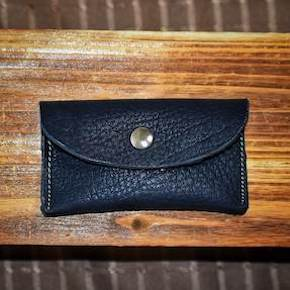
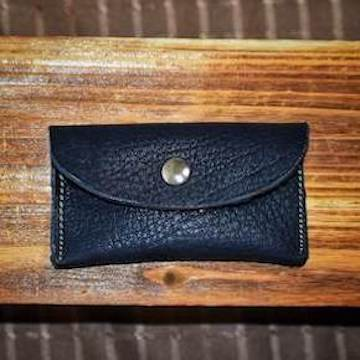
サイドのバー削除、写真のサイズ調整、フッターボタン追加など

diff --git a/ezo-work/css/product.css b/ezo-work/css/product.css
@@ -390,7 +390,7 @@ TOP
 
 * .grid {
   display: grid;
-  grid-template-columns: repeat(auto-fit, minmax(280px, 1fr));
+  grid-template-columns: repeat(auto-fit, minmax(360px, 1fr));
   row-gap: 0px;
   column-gap: 0px;
 }
@@ -454,6 +454,8 @@ TOP
   width: 20%;
   margin: 50px auto;
   color: #fff;
+  background-color: #61645C;
+  font-size: 12px;
 }
 
 * .foot-wrap ul {
@@ -464,16 +466,68 @@ TOP
 }
 
 * .foot-wrap {
-  background-color: #333;
+  background-color: #61645C;
   color: #fff;
   text-align: center;
+}
+
+* .btn-square {
+  display: inline-block;
+  padding: 0.5em 1em;
+  text-decoration: none;
+  background: #668ad8;
+  /*ボタン色*/
+  color: #FFF;
+  border-bottom: solid 4px #627295;
+  border-radius: 3px;
+}
+
+* .btn-square:active {
+  /*ボタンを押したとき*/
+  -webkit-transform: translateY(4px);
+  transform: translateY(4px);
+  /*下に動く*/
+  border-bottom: none;
+  /*線を消す*/
+}
+
+* .newsletter {
+  size: 4px;
+}
+
+* .mobile_footer {
+  display: none;
 }
 
 @media screen and (max-width: 1024px) {
   * {
     /*ウィンドウ幅が最大1024pxまでの場合に適用*/
   }
+  * .mobile_footer {
+    display: inline;
+  }
+}
+
+@media screen and (max-width: 1024px) and (max-width: 789px) {
+  * {
+    /*ウィンドウ幅が最大789pxまでの場合に適用*/
+  }
   * .foot-wrap {
     display: none;
+  }
+  * .ul.icons {
+    border: 1px solid #666;
+    display: flex;
+    list-style-type: none;
+    margin: 0 0 0 1em;
+    padding: 0;
+    width: 250px;
+  }
+  * .icons li {
+    border: 1px solid #aaa;
+    line-height: 110%;
+    margin: 0.2em;
+    padding: 0.5em;
+    text-align: center;
   }
 }

diff --git a/ezo-work/product.html b/ezo-work/product.html
@@ -13,7 +13,7 @@
 </head>
 
 <body>
-  <aside class="left_side_bar">
+  <!-- <aside class="left_side_bar">
     <div class="row-inner restrict row-brand">
       <div id="logo-container-mobile"></div>
       <div class="style-light">
@@ -30,7 +30,7 @@
       <li class="side_links"><a href="#">商品について</a></li>
       <li class="side_links"><a href="#">購入先</a></li>
     </ul>
-  </aside>
+  </aside> -->
   <div class="flex-column">
     <main>
       <div class="main_header">
@@ -110,7 +110,7 @@
                   </a>
                 </figure>
                 <figure class="on-img">
-                  <img src="./images/エゾシカ２_sm.jpg" alt="商品の写真">
+                  <img src="./images/エゾシカ２_sm.jpg" alt="商品の写真">
                   <a href="#">
                     <div class="mask">
                       <div class="caption">Coming soon!</div>
@@ -206,6 +206,7 @@
         <ul class="foot-right">
           <h4 class="newsletter">subscribe to our newsletter </h4>
           <input type="email" placeholder="Email" name="email" required>
+          <a href="#" class="btn-square">送信</a>
         </ul>
     </div>
       <div class="menu-right">

diff --git a/ezo-work/css/product.scss b/ezo-work/css/product.scss
@@ -245,7 +245,7 @@ footer{
 }
 .grid{
   display: grid;
-  grid-template-columns: repeat(auto-fit, minmax(280px, 1fr));
+  grid-template-columns: repeat(auto-fit, minmax(360px, 1fr));
   row-gap: 0px;
   column-gap: 0px;
 } 
@@ -319,6 +319,21 @@ footer a{
   color: #fff;
   text-align: center;
 }
+.btn-square{
+  display: inline-block;
+  padding: 0.5em 1em;
+  text-decoration: none;
+  background: #668ad8;/*ボタン色*/
+  color: #FFF;
+  border-bottom: solid 4px #627295;
+  border-radius: 3px;
+}
+.btn-square:active{
+  /*ボタンを押したとき*/
+  -webkit-transform: translateY(4px);
+  transform: translateY(4px);/*下に動く*/
+  border-bottom: none;/*線を消す*/
+}
 .newsletter{
   size: 4px;
 }
@@ -348,6 +363,7 @@ footer a{
   margin: 0.2em;
   padding: 0.5em;
   text-align: center;
+}
 }
 }
 }
